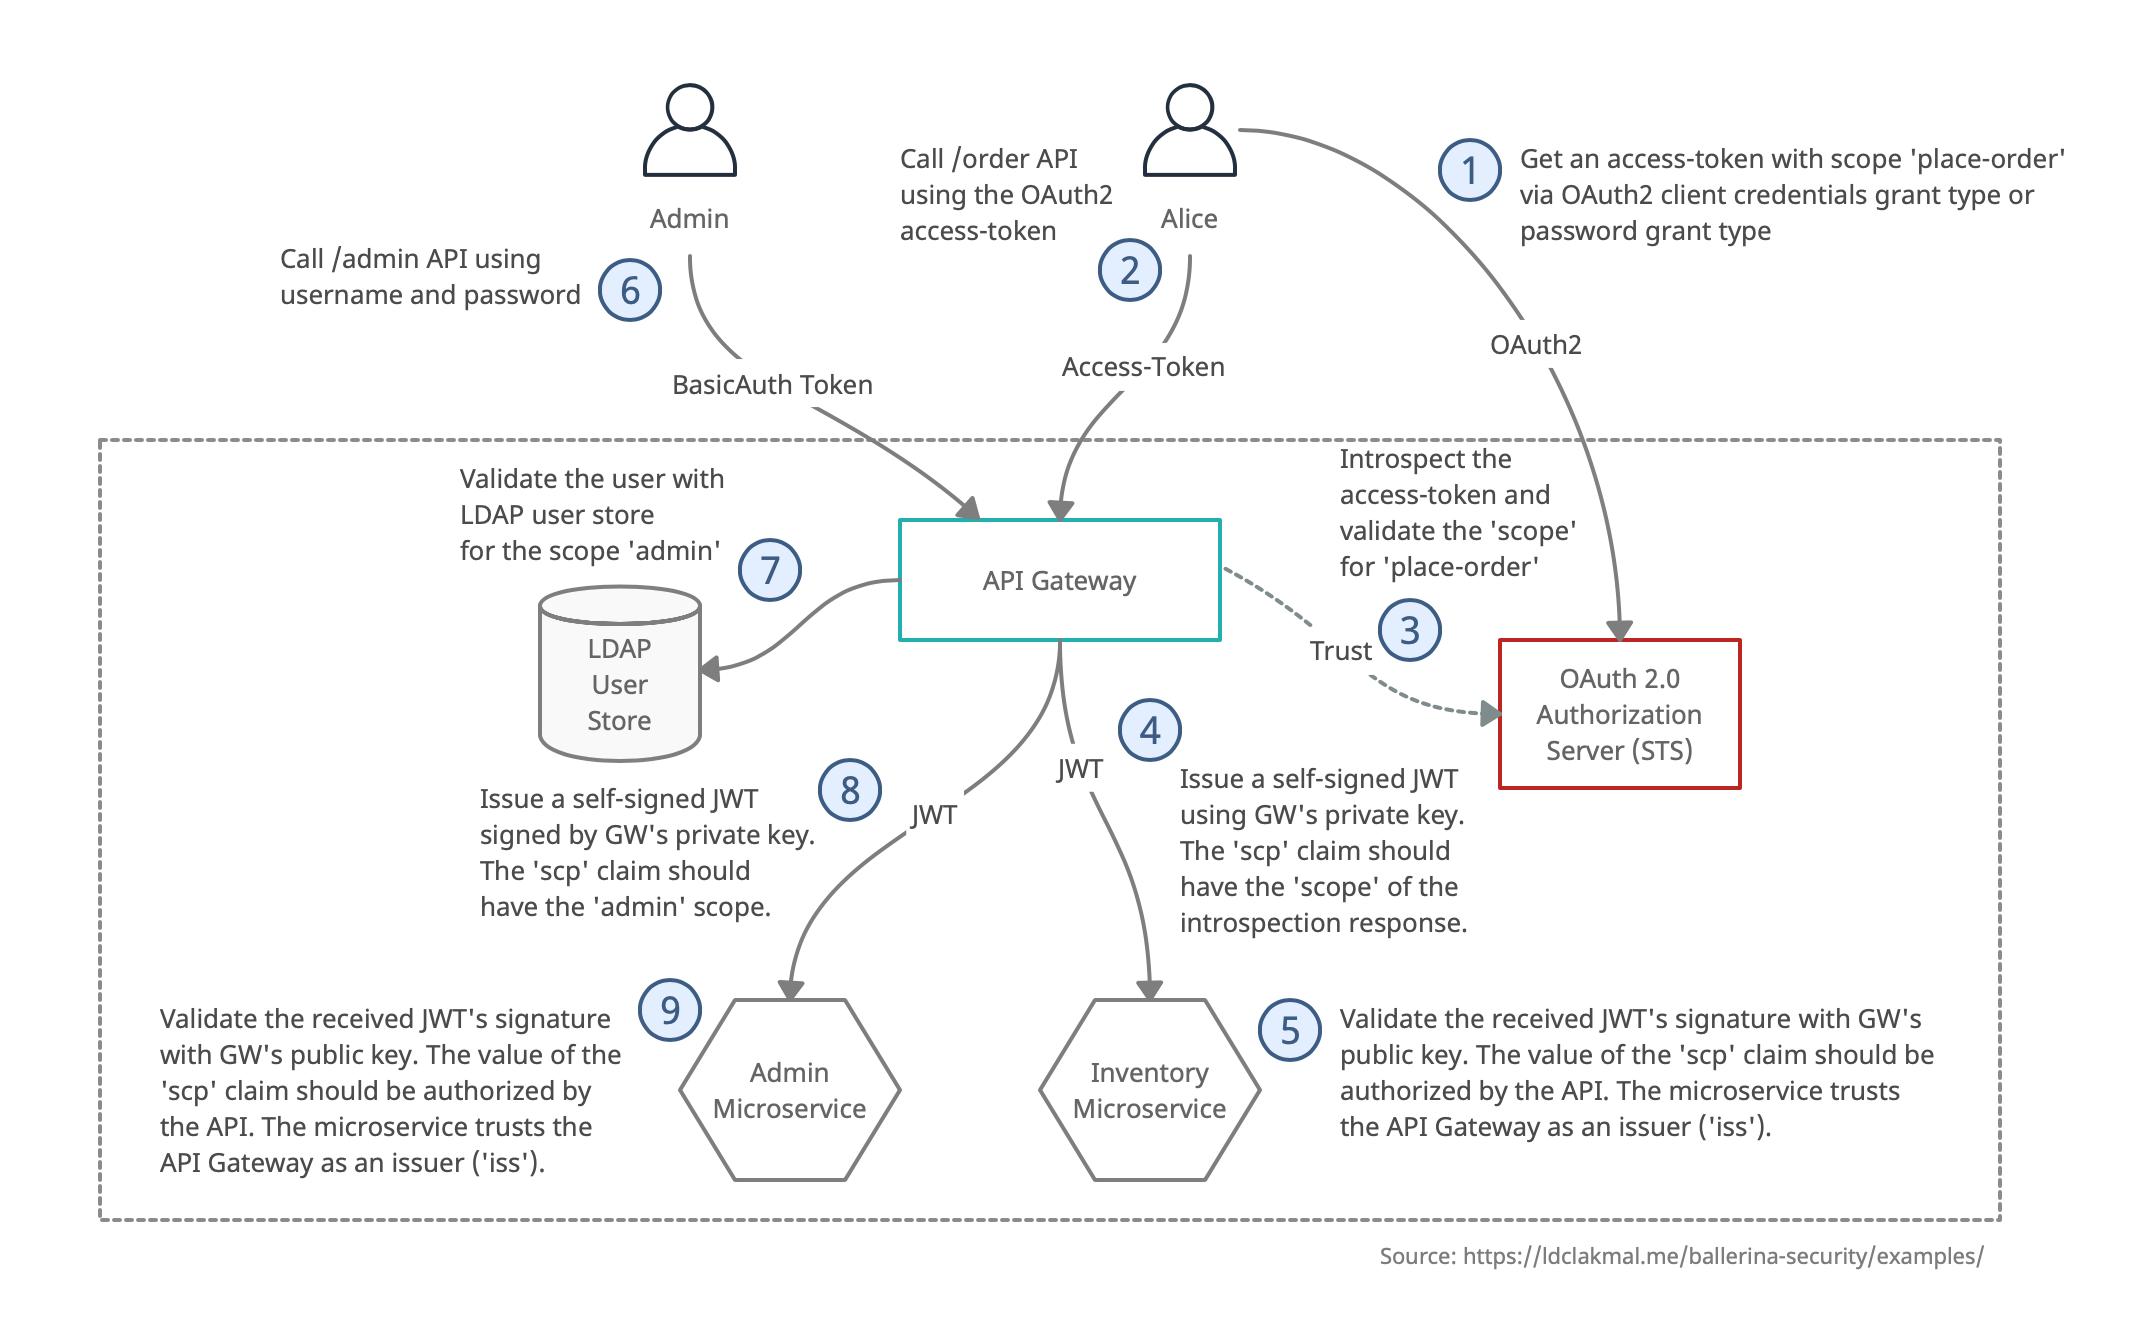
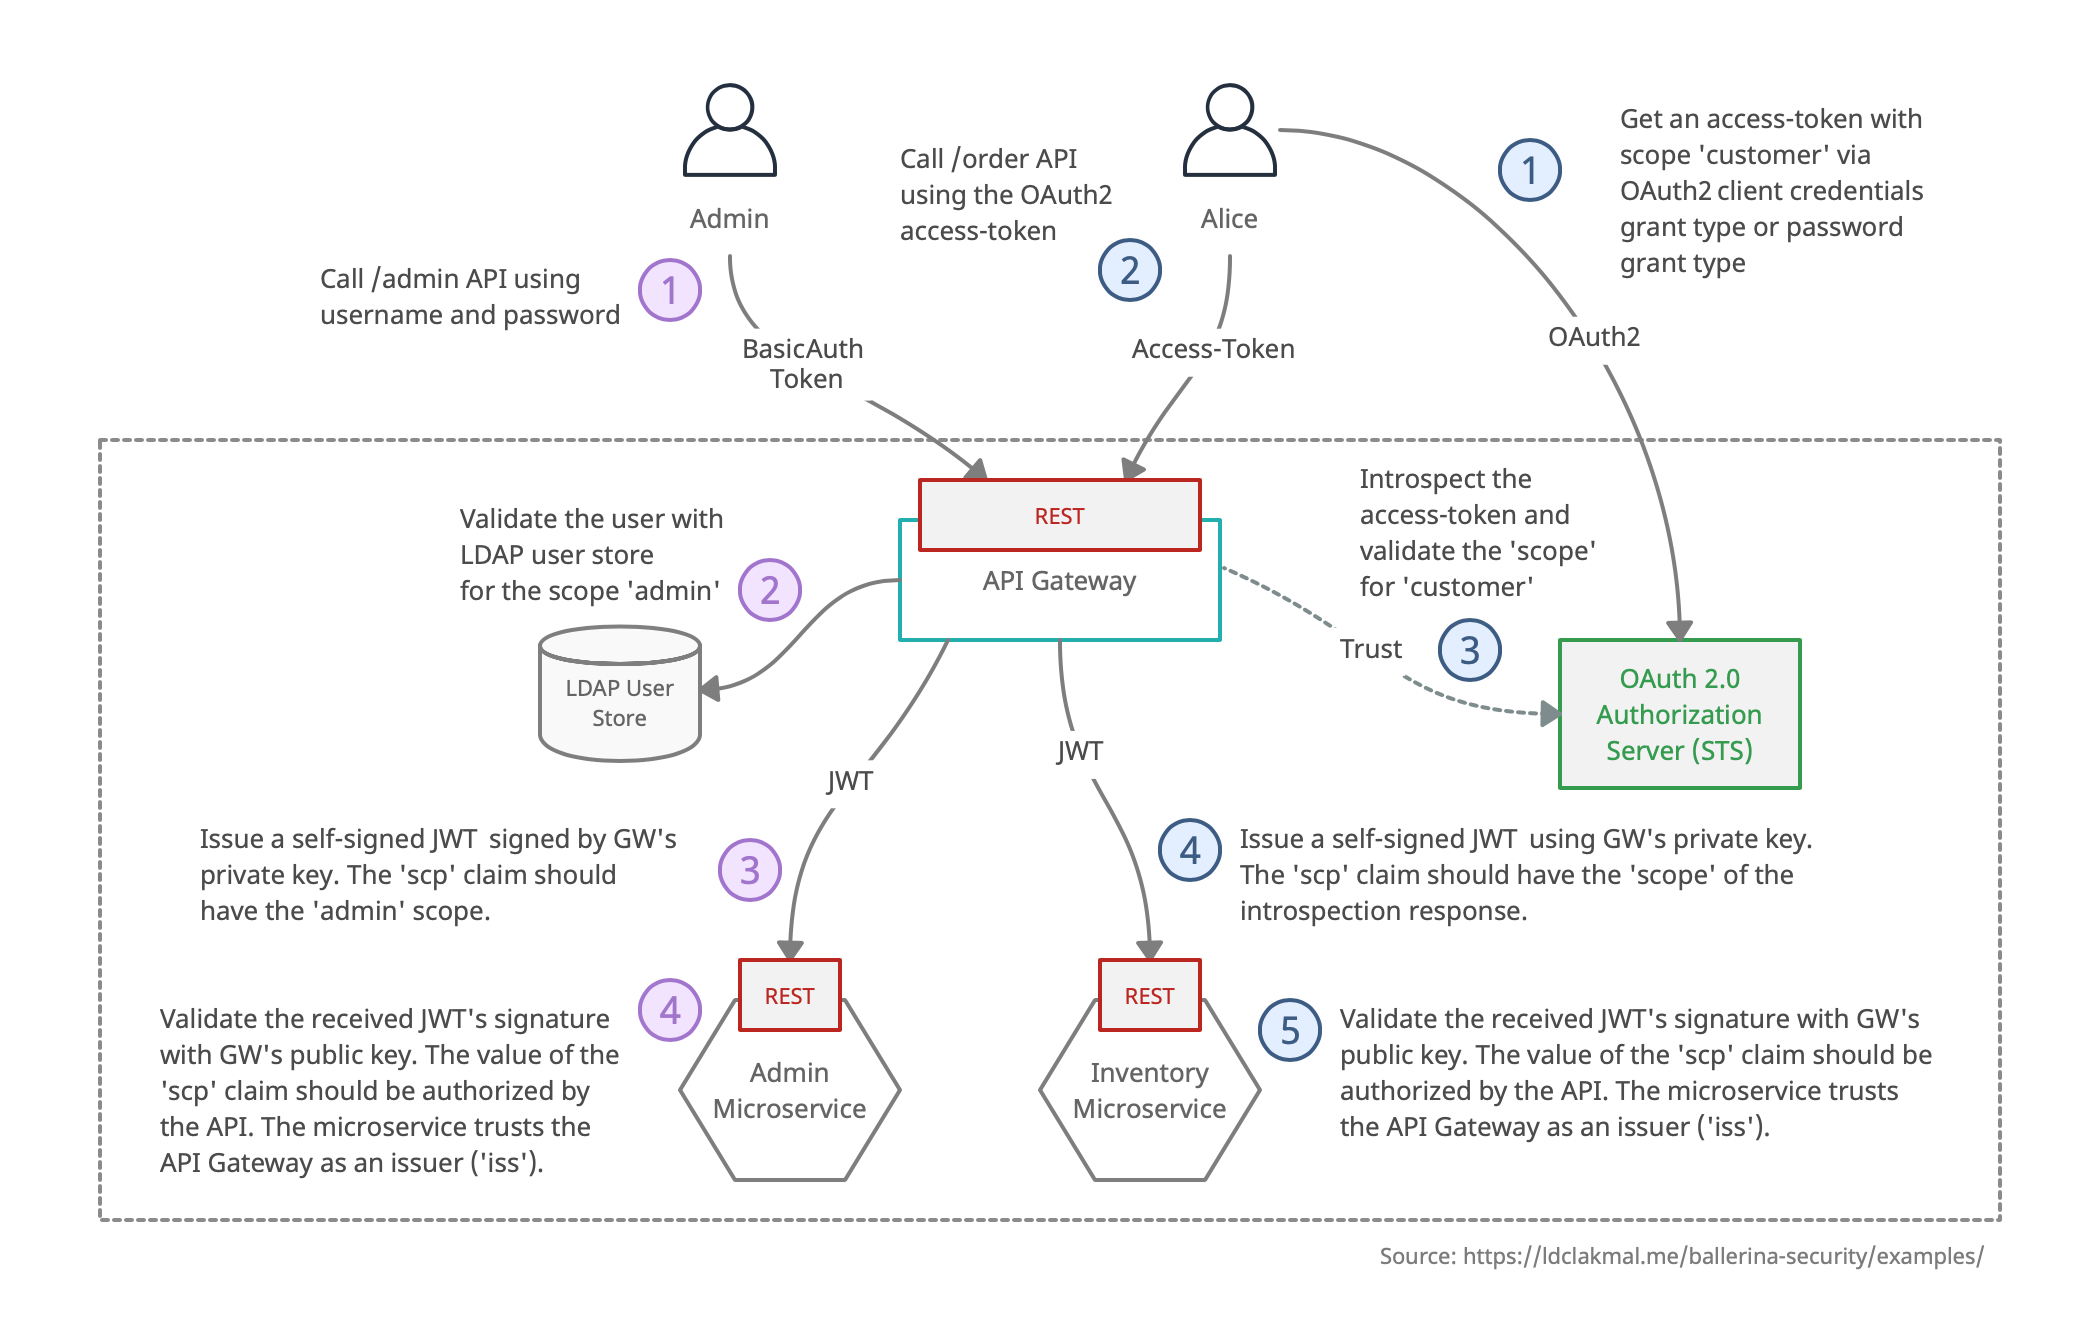
Update scenario-1

diff --git a/examples/scenario-1/README.md b/examples/scenario-1/README.md
@@ -2,23 +2,34 @@
 
 ![scenario-1](./scenario-1.png)
 
+### Description
+
+Simple inventory management system, with 2 secured microservices, and a secured API gateway, which connects to an LDAP user store and trusts OAuth2 authorization server. User `Jane`, the admin, connects to `Admin Microservice` through the REST API of API gateway using HTTPS for management purposes. User `Alice`, a customer, connects to `Inventory Microservice` through the REST API of API gateway using HTTPS for purchasing items. All the APIs are authenticated with different types of authentication mechanisms such as basic auth, JWT auth, OAuth2 etc. and secured with TLS as well.
+
 ### Resources
 
-- User Admin & Alice
+- User Jane (admin) & Alice (customer)
 - OAuth 2.0 Authorization Server (STS)
-- Ballerina API Gateway
-- Ballerina Admin Microservice
-- Ballerina Inventory Microservice
+- API Gateway
+- Admin and Inventory Microservices
 
 ### Steps
 
-1. User `Alice` gets an access-token with scope `place-order` via OAuth2 client credentials grant type or OAuth2 password grant type from _OAuth 2.0 Authorization Server (STS)_.
-2. User `Alice` calls `/order` API of the _Ballerina API Gateway_ using the received OAuth2 access-token.
-3. _Ballerina API Gateway_ introspects the received access-token against the _OAuth 2.0 Authorization Server (STS)_ and validate the `scope` for `place-order`.
-4. _Ballerina API Gateway_ issues a self-signed JWT signed by Gateway's private key. The `scp` claim should have the `scope` received from the introspection response, which is `place-order`. Calls the _Ballerina Inventory Microservice_ using that JWT.
+#### Jane (admin)
+
+1. User `Jane` calls basic-auth secured `/admin` **REST API** using username and password.
+2. _Ballerina API Gateway_ validates the user against LDAP user store for the scope `Admin`.
+3. _Ballerina API Gateway_ issues a self-signed JWT signed by Gateway's private key. The `scp` claim should  have the `Admin` scope. Calls the JWT secured **REST API** of _Ballerina Admin Microservice_ using that JWT.
+4. _Ballerina Admin Microservice_ validate the received JWT's signature with Gateway's public key. The value of the `scp` claim should be authorized by the API. The microservice trusts the API Gateway as an issuer (`iss`).
+
+> If successful, `Jane` should get a success responses from `Admin Microservice`. If not, a 401 or 403 response.
+
+#### Alice (customer)
+
+1. User `Alice` gets an access-token with scope `customer` via OAuth2 client credentials grant type or OAuth2 password grant type from _OAuth 2.0 Authorization Server (STS)_.
+2. `Alice` calls OAuth2 secured `/order` **REST API** of the _Ballerina API Gateway_ using the received OAuth2 access-token.
+3. _Ballerina API Gateway_ introspects the received access-token against the _OAuth 2.0 Authorization Server (STS)_ and validate the `scope` for `customer`.
+4. _Ballerina API Gateway_ issues a self-signed JWT signed by Gateway's private key. The `scp` claim should have the `scope` received from the introspection response, which is `customer`. Calls the JWT secured **REST API** of _Ballerina Inventory Microservice_ using that JWT.
 5. _Ballerina Inventory Microservice_ validates the received JWT's signature with Gateway's public key. The value of the `scp` claim should be authorized by the API. The microservice trusts the API Gateway as an issuer (`iss`).
-6. User `Admin` calls `/admin` API using username and password.
-7. _Ballerina API Gateway_ validates the user against LDAP user store for the scope `Admin`.
-8. _Ballerina API Gateway_ issues a self-signed JWT signed by Gateway's private key. The `scp` claim should  have the `Admin` scope. Calls the _Ballerina Admin Microservice_ using that JWT.
-9. _Ballerina Admin Microservice_ validate the received JWT's signature with Gateway's public key. The value of the `scp` claim should be authorized by the API. The microservice trusts the API Gateway as an issuer (`iss`).
-10. If all the requests get successful, the user `Alice` and `Admin` should get success responses. If not, 401/403 responses.
+
+> If successful, `Alice` should get a success responses from `Inventory Microservice`. If not, a 401 or 403 response.
